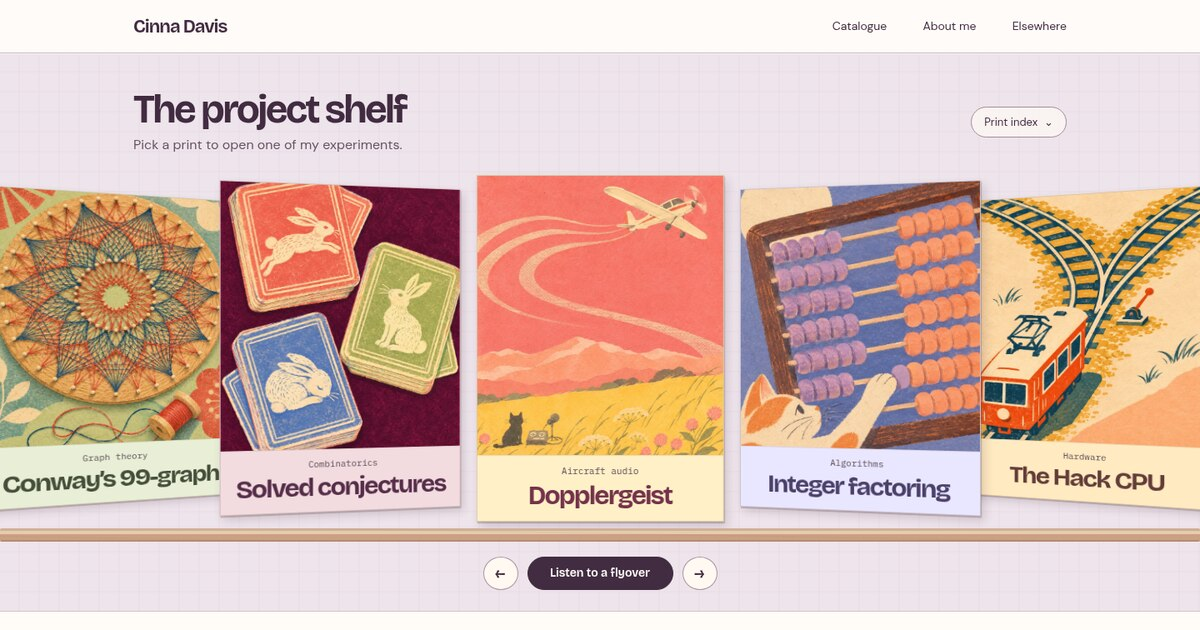
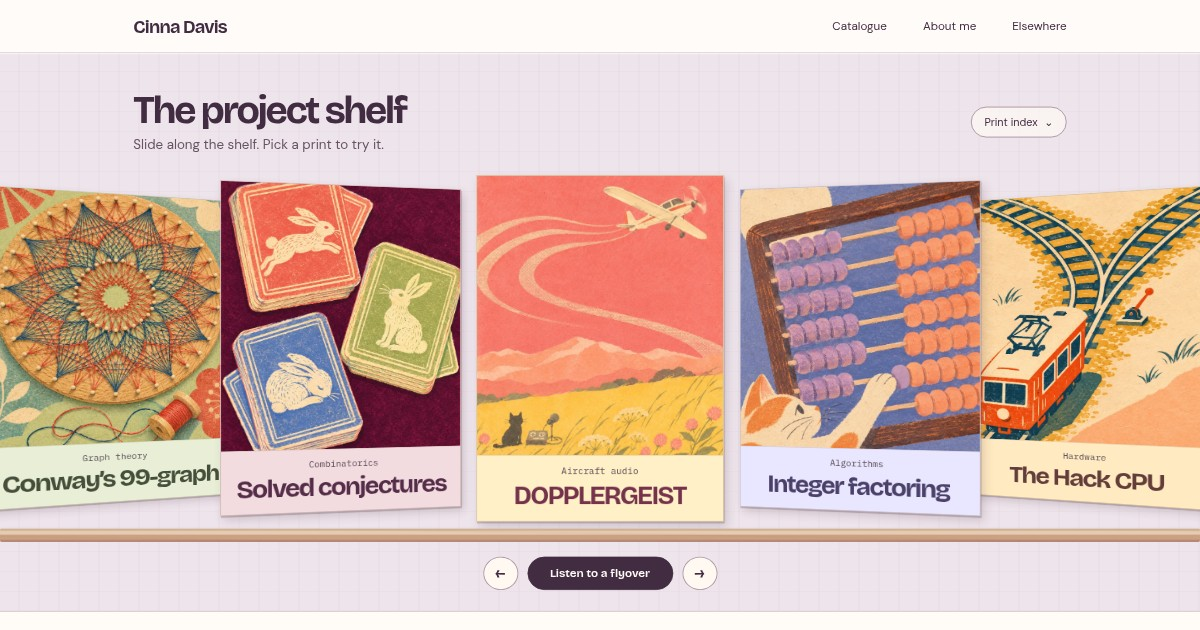
Use DOPPLERGEIST consistently on the shelf and share image

diff --git a/site/index.html b/site/index.html
@@ -17,7 +17,7 @@
     />
     <meta
       property="og:image"
-      content="https://1337isnot1337.github.io/assets/project-shelf.jpg"
+      content="https://1337isnot1337.github.io/assets/project-shelf.jpg?v=2"
     />
     <meta name="twitter:card" content="summary_large_image" />
     <link rel="icon" href="assets/prints/favicon.png" />
@@ -71,7 +71,7 @@
                 >
               </li>
               <li>
-                <a href="#flyover" data-project="flyover">Dopplergeist</a>
+                <a href="#flyover" data-project="flyover">DOPPLERGEIST</a>
               </li>
               <li>
                 <a href="#factoring" data-project="factoring"
@@ -155,7 +155,7 @@
                   href="#flyover"
                   class="print print-flyover"
                   data-project="flyover"
-                  aria-label="Dopplergeist — Listen to a flyover"
+                  aria-label="DOPPLERGEIST — Listen to a flyover"
                   ><img
                     width="640"
                     height="800"
@@ -164,7 +164,7 @@
                     alt=""
                   /><span class="print-foot"
                     ><span class="print-type">Aircraft audio</span
-                    ><strong>Dopplergeist</strong></span
+                    ><strong>DOPPLERGEIST</strong></span
                   ></a
                 >
               </div>
@@ -664,7 +664,7 @@
         <article class="detail" id="flyover" aria-labelledby="flyover-title">
           <div class="detail-heading">
             <p>Aircraft audio</p>
-            <h2 id="flyover-title">Dopplergeist</h2>
+            <h2 id="flyover-title">DOPPLERGEIST</h2>
           </div>
           <p>
             Can a recording tell you where the microphone was? DOPPLERGEIST
